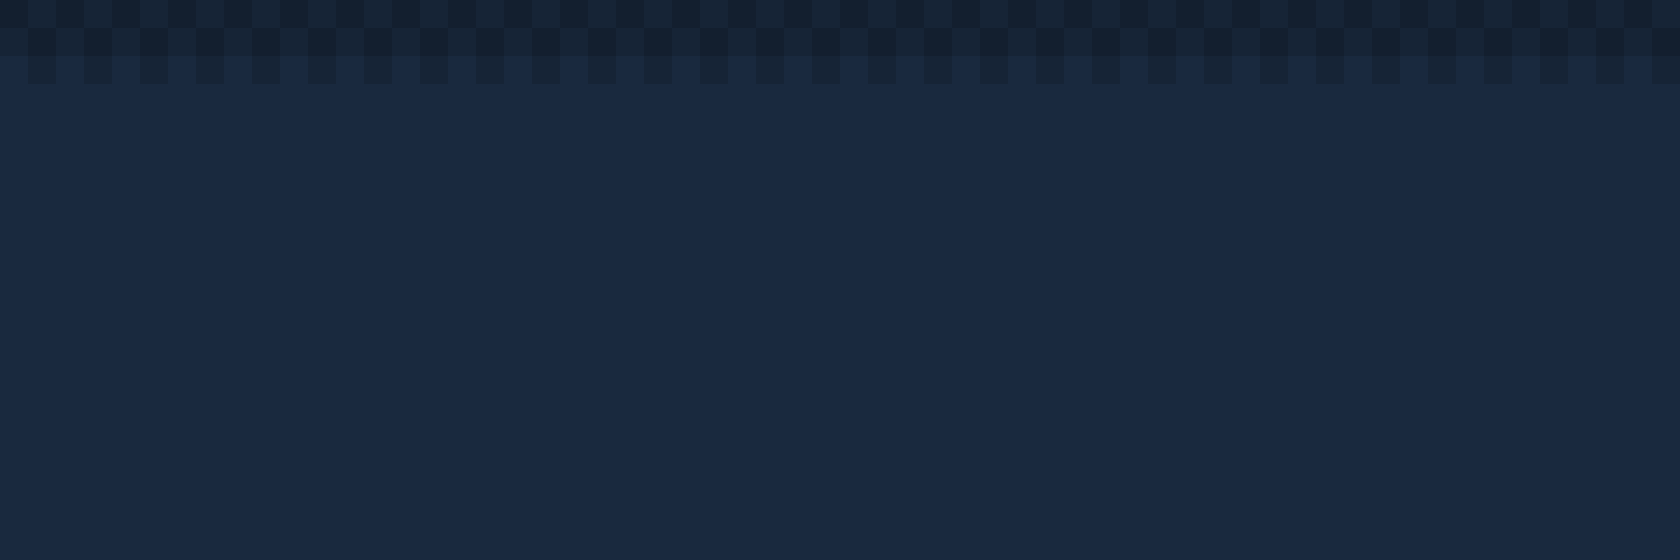
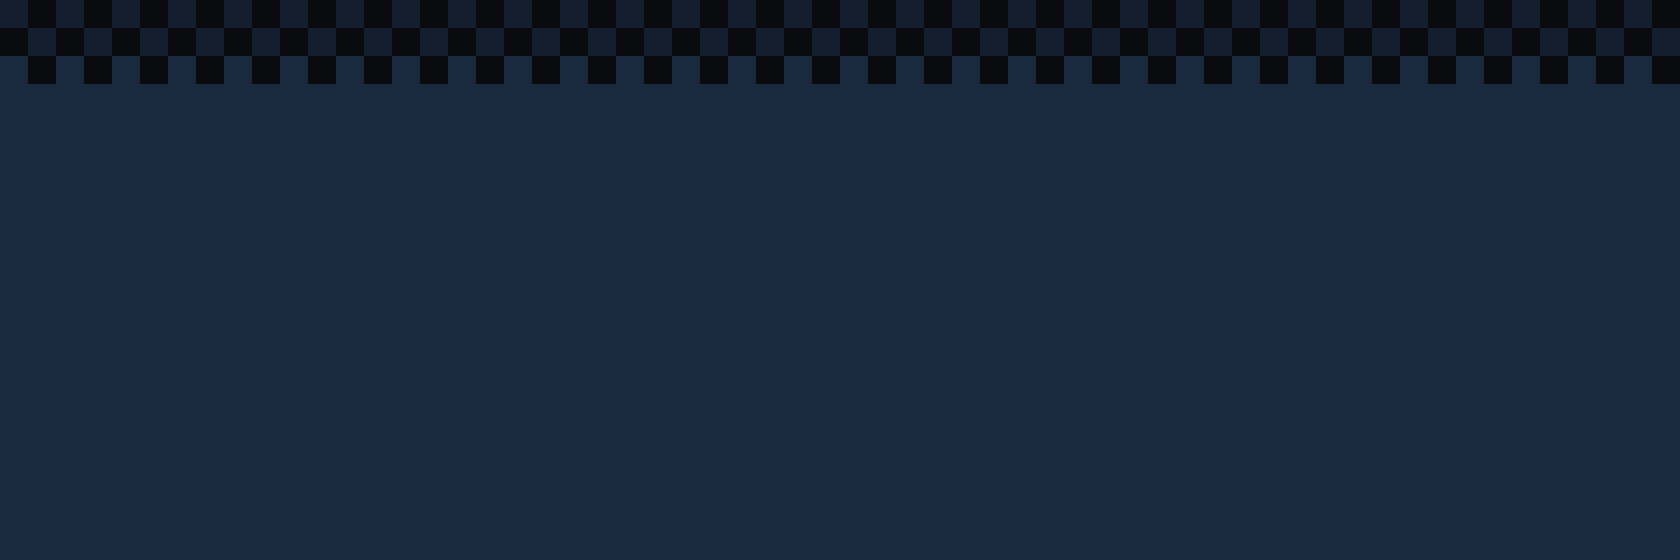
Website in french
French + added seasonal background

Changed region(s): [[0.0, 0.0, 1.0, 0.1518]]

diff --git a/index.html b/index.html
@@ -1,6 +1,6 @@
 <!DOCTYPE html>
 
-<html lang="en">
+<html lang="fr">
   <head>
     <meta charset="UTF-8" />
     <meta http-equiv="X-UA-Compatible" content="IE-edge" />
@@ -38,7 +38,7 @@
                   <span class="icon">
                     <ion-icon class="navIcon" name="home-outline"></ion-icon>
                   </span>
-                  <span class="text">Home</span>
+                  <span class="text">Accueil</span>
                 </a>
               </li>
               <li onclick="navClose()" class="list">
@@ -49,7 +49,7 @@
                       name="person-circle-outline"
                     ></ion-icon>
                   </span>
-                  <span class="text">Profile</span>
+                  <span class="text">Profil</span>
                 </a>
               </li>
               <li onclick="navClose()" class="list">
@@ -89,7 +89,7 @@
                 <span
                   ><ion-icon class="icon" name="document-outline"></ion-icon
                 ></span>
-                <span class="text">Resume</span>
+                <span class="text">C.V.</span>
               </button>
             </div>
             <div class="openmenu">
@@ -108,7 +108,7 @@
                 <span class="icon">
                   <ion-icon class="navIcon" name="home-outline"></ion-icon>
                 </span>
-                Home</a
+                Accueil</a
               >
             </li>
             <li class="sidelist">
@@ -119,7 +119,7 @@
                     name="person-circle-outline"
                   ></ion-icon>
                 </span>
-                Profile</a
+                Profil</a
               >
             </li>
             <li class="sidelist">
@@ -153,7 +153,7 @@
               >
             </li>
             <li class="sidelistResume">
-              <a href="#" onclick="closemenu()">Resume</a>
+              <a href="#" onclick="closemenu()">C.V.</a>
             </li>
             <img
               class="closeicon"
@@ -186,7 +186,7 @@
       <!-- ------ Presentation/minigame ------ -->
 
       <div class="foregroundImg">
-        <img src="/Images/Foreground.png" />
+        <img id="foreground-img" src="" />
       </div>
       <div class="container-game">
         <div class="game">
@@ -195,7 +195,7 @@
       </div>
       <div class="presentation">
         <div class="searchBar">
-          <p>- Hi, I'm -</p>
+          <p>- Bonjour, je suis -</p>
         </div>
         <div class="animated-text">
           <span></span>
@@ -218,64 +218,71 @@
             <img src="Images/Profile-Picture.jpg" />
           </div>
           <div class="about-col-2">
-            <h1 class="sub-title">About me</h1>
+            <h1 class="sub-title">Présentation</h1>
             <p>
-              Hi ! My name is Rémi Legrand. <br />
-              I am an aspiring front-end web developer and UX/UI designer. As a
-              programmer, my passion lies in crafting distinctive and responsive
-              user interfaces.
+              Bonjour, je m'appelle Rémi Legrand. <br />
+              Je suis un aspirant développeur web front-end et designer UX/UI.
+              En tant que programmeur, ma passion est de créer des interfaces
+              utilisateur originales et réactives.
             </p>
             <p>
-              Passionate about pixel art and programming, I am always curious to
-              learn more about new technologies and creative coding.
+              Passionné de pixel art et de programmation, je suis toujours
+              curieux d'en apprendre plus sur les nouvelles technologies et le
+              codage innovant.
             </p>
-            <p>Let's get in touch !</p>
+            <p>Entrons en contact !</p>
 
             <div class="tab-titles">
               <h1 class="tab-links active-link" onclick="openTab('skills')">
-                Skills
+                Compétences
               </h1>
               <h1 class="tab-links" onclick="openTab('experience')">
-                Experience
+                Expérience
               </h1>
               <h1 class="tab-links" onclick="openTab('education')">
-                Education
+                Éducation
               </h1>
             </div>
             <div class="tab-contents active-tab" id="skills">
               <ul>
-                <li><span>UI/UX</span><br />Designing Web App interfaces</li>
                 <li>
-                  <span>Web developpement</span><br />Web app developpement
+                  <span>UI/UX</span><br />Conception d'interfaces d'applications
+                  Web
                 </li>
                 <li>
-                  <span>Software and Technichal</span><br />HTML, CSS,
+                  <span>Web developpement</span><br />Développement
+                  d'applications web.
+                </li>
+                <li>
+                  <span>Logiciels et technologies</span><br />HTML, CSS,
                   JavaScript, Photoshop, Git, GitHub, Visual Studio
                 </li>
               </ul>
             </div>
             <div class="tab-contents" id="experience">
               <ul>
-                <li><span>2023 - Current</span><br />Self-taught programmer</li>
                 <li>
-                  <span>2022 - 2023</span><br />English tutor at "Abaque",
+                  <span>2023 - en cours</span><br />Programmeur autodidacte
+                </li>
+                <li>
+                  <span>2022 - 2023</span><br />Professeur d'anglais à "Abaque",
                   Grenoble
                 </li>
                 <li>
-                  <span>2014</span><br />Observation internship in web
-                  design/web development at "La Haute Société", Grenoble.
+                  <span>2014</span><br />Stage d'observation en conception web
+                  design/web development à "La Haute Société", Grenoble.
                 </li>
               </ul>
             </div>
             <div class="tab-contents" id="education">
               <ul>
                 <li>
-                  <span>2022</span><br />Master's degree in English Literature
-                  (LLCER) at Université Grenoble Alpes.
+                  <span>2022</span><br />Master en littérature anglaise (LLCER)
+                  à l'Université Grenoble Alpes.
                 </li>
                 <li>
-                  <span>2020</span><br />Bachelor's degree in Applied Foreign
-                  Languages (LEA) at Université Grenoble Alpes.
+                  <span>2020</span><br />Licence en Langues Etrangères
+                  Appliquées (LEA) à l'Université Grenoble Alpes.
                 </li>
               </ul>
             </div>
@@ -288,7 +295,7 @@
 
     <div id="services">
       <div class="container">
-        <h1 class="sub-title">My Services</h1>
+        <h1 class="sub-title">Mes Services</h1>
         <div class="services-list">
           <div>
             <h2>Web Dev</h2>
@@ -296,7 +303,7 @@
             <a href="#">Learn more</a>
           </div>
           <div>
-            <h2>UI/uX Design</h2>
+            <h2>UI/UX Design</h2>
             <p>This section is not yet available.</p>
             <a href="#">Learn more</a>
           </div>
@@ -313,12 +320,12 @@
 
     <div id="portfolio">
       <div class="container">
-        <h1 class="sub-title">My Work</h1>
+        <h1 class="sub-title">Mes Projets</h1>
         <div class="work-list">
           <div class="work">
             <img src="Images/NoImage.jpg" />
             <div class="layer">
-              <h3>Project</h3>
+              <h3>Projet</h3>
               <p>No project available yet.</p>
               <a href=""
                 ><ion-icon class="projectIcon" name="log-in-outline"></ion-icon
@@ -328,7 +335,7 @@
           <div class="work">
             <img src="Images/NoImage.jpg" />
             <div class="layer">
-              <h3>Project</h3>
+              <h3>Projet</h3>
               <p>No project available yet.</p>
               <a href=""
                 ><ion-icon class="projectIcon" name="log-in-outline"></ion-icon
@@ -338,7 +345,7 @@
           <div class="work">
             <img src="Images/NoImage.jpg" />
             <div class="layer">
-              <h3>Project</h3>
+              <h3>Projet</h3>
               <p>No project available yet.</p>
               <a href=""
                 ><ion-icon class="projectIcon" name="log-in-outline"></ion-icon
@@ -346,7 +353,7 @@
             </div>
           </div>
         </div>
-        <a href="#" class="btn">See more</a>
+        <a href="#" class="btn">Voir plus</a>
       </div>
     </div>
 
@@ -356,7 +363,7 @@
       <div class="container">
         <div class="row">
           <div class="contact-left">
-            <h1 class="sub-title">Contact me</h1>
+            <h1 class="sub-title">Me Contacter</h1>
             <p></p>
             <p>
               remi_legrand@icloud.com<a

diff --git a/Styles/stylesheet.css b/Styles/stylesheet.css
@@ -23,8 +23,8 @@ html {
 }
 
 body {
-  background-image: url("/Images/BackgroundPixelArt.png");
-  background-color: #131f2f;
+  background-image: none;
+  background-color: #090b0f;
   width: 100%;
   overflow-x: hidden;
   overflow-y: hidden;
@@ -38,7 +38,6 @@ body {
 
 .navbar {
   display: grid;
-  align-items: center;
   flex-direction: column;
   flex-wrap: nowrap;
   justify-content: center;
@@ -116,7 +115,7 @@ nav ul li a {
 }
 
 .navIcon {
-  color: #fff;
+  color: #000;
   font-size: 5svh;
   height: 5svh;
 }
@@ -133,7 +132,7 @@ nav ul li a .icon {
 nav ul li.active a .navIcon {
   transform: translateY(-1svh);
   transition: 0.5s;
-  color: #1b0d08;
+  color: #fff;
 }
 
 nav ul li a .text {
@@ -157,12 +156,11 @@ nav ul li.active a .text {
   display: none;
   position: absolute;
   margin-top: 1svh;
-  margin-left: 1.3svh;
-  width: 11svh;
+  margin-left: 0;
+  width: 12svh;
   height: 7svh;
-  background: #ddca7d;
-  border-radius: 3svh;
-  border: 3px solid #ab7536;
+  background: #9a672b;
+  border-radius: 2svh;
   transition: 0.5s;
 }
 
@@ -375,7 +373,7 @@ nav ul li:nth-child(5).active ~ .indicator {
 .foregroundImg img {
   position: absolute;
   width: 104vw;
-  top: -0.3svh;
+  top: 0;
 }
 
 .presentation {
@@ -450,19 +448,19 @@ nav ul li:nth-child(5).active ~ .indicator {
   }
   21%,
   40% {
-    content: "a web developer";
+    content: "un développeur web";
   }
   41%,
   60% {
-    content: "a pixel artist";
+    content: "un pixel artist";
   }
   61%,
   80% {
-    content: "a web designer";
+    content: "un web designer";
   }
   81%,
   100% {
-    content: "a fox enthusiast";
+    content: "un amateur de renards";
   }
 }
 
@@ -505,13 +503,13 @@ nav ul li:nth-child(5).active ~ .indicator {
 
 .wasdAnim {
   position: absolute;
-  left: 20vw;
-  top: 30vw;
+  left: 47vw;
+  top: 15svh;
 }
 
 .wasdAnim img {
-  width: 5vw;
-  height: 3vw;
+  width: 10svh;
+  height: 10svh;
 }
 
 .container-game {

diff --git a/Scripts/index.js b/Scripts/index.js
@@ -8,6 +8,44 @@ function navClose() {
 function navCloseInstant() {
   navBar.style.transform = "translateX(-120%)";
 }
+//background img
+
+const setBackground = () => {
+  const foreground = document.getElementById("foreground-img");
+  const currentTime = new Date();
+  const month = currentTime.getMonth() + 1;
+  let totalMonth = month;
+
+  if (totalMonth >= 3 && totalMonth <= 5) {
+    document.body.style.backgroundImage =
+      "url('/Images/BackgroundPixelArt-Spring.png')";
+    foreground.src = "/Images/Foreground-Spring.png";
+    return;
+  } else if (totalMonth >= 6 && totalMonth <= 8) {
+    document.body.style.backgroundImage =
+      "url('/Images/BackgroundPixelArt-Summer.png')";
+    foreground.src = "/Images/Foreground-Summer.png";
+    return;
+  } else if (totalMonth >= 9 && totalMonth <= 11) {
+    document.body.style.backgroundImage =
+      "url('/Images/BackgroundPixelArt-Fall.png')";
+    foreground.src = "/Images/Foreground-Fall.png";
+    return;
+  } else if (totalMonth == 12 || totalMonth == 1 || totalMonth == 2) {
+    document.body.style.backgroundImage =
+      "url('/Images/BackgroundPixelArt-Winter.png')";
+    foreground.src = "/Images/Foreground-Winter.png";
+    return;
+  } else {
+    document.body.style.backgroundImage =
+      "url('/Images/BackgroundPixelArt-Spring.png')";
+    foreground.src = "/Images/Foreground-Spring.png";
+    return;
+  }
+};
+window.onload = () => {
+  setBackground();
+};
 
 //game
 let gameHasStarted = false;
